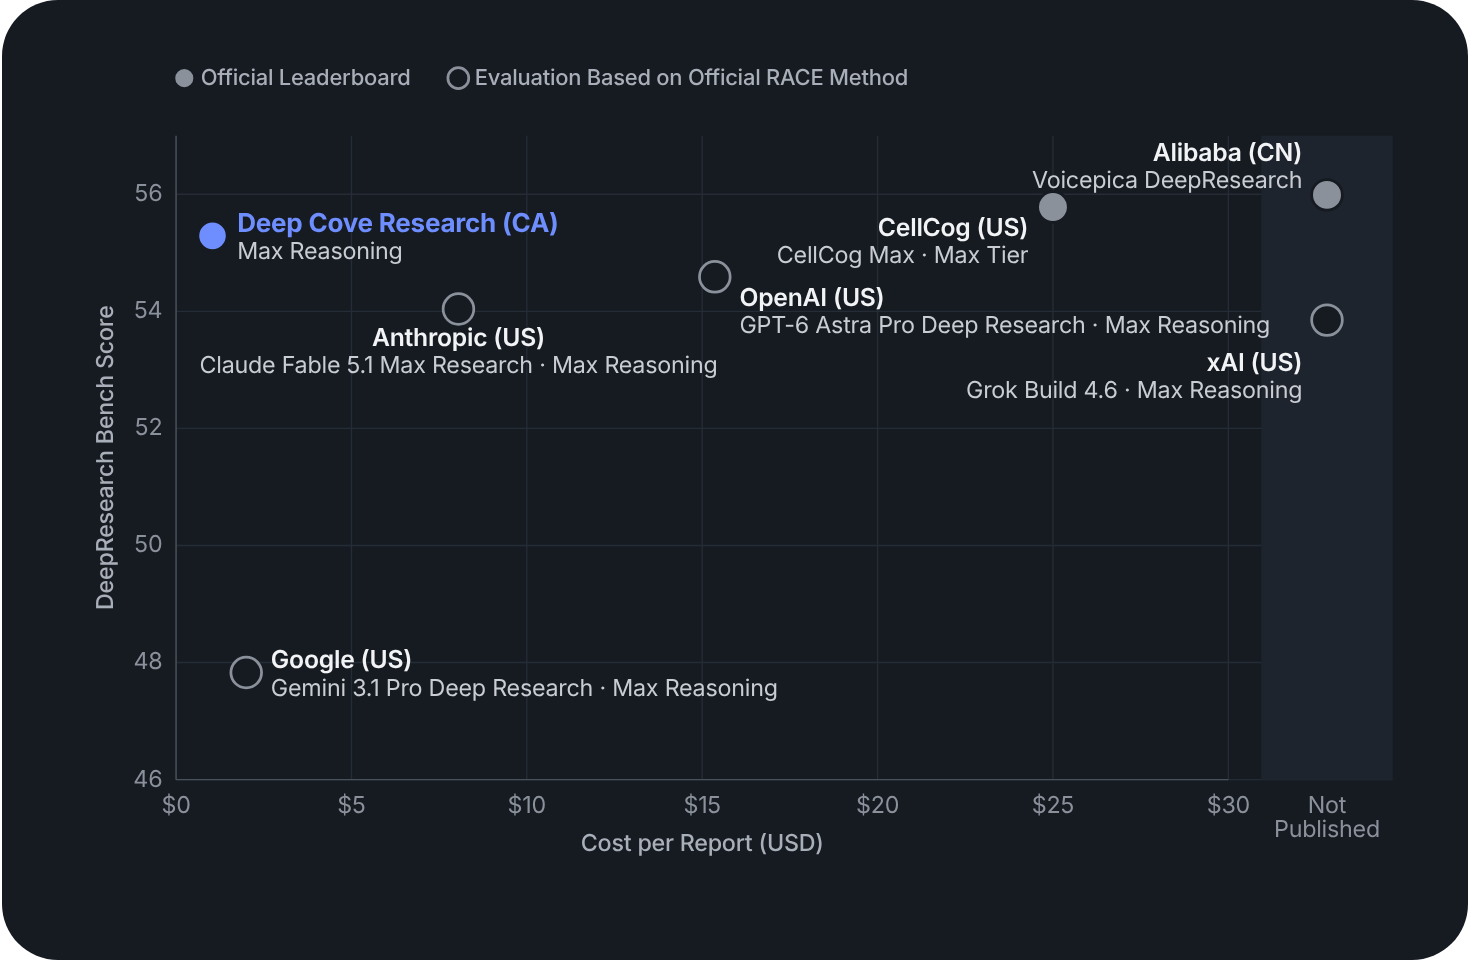
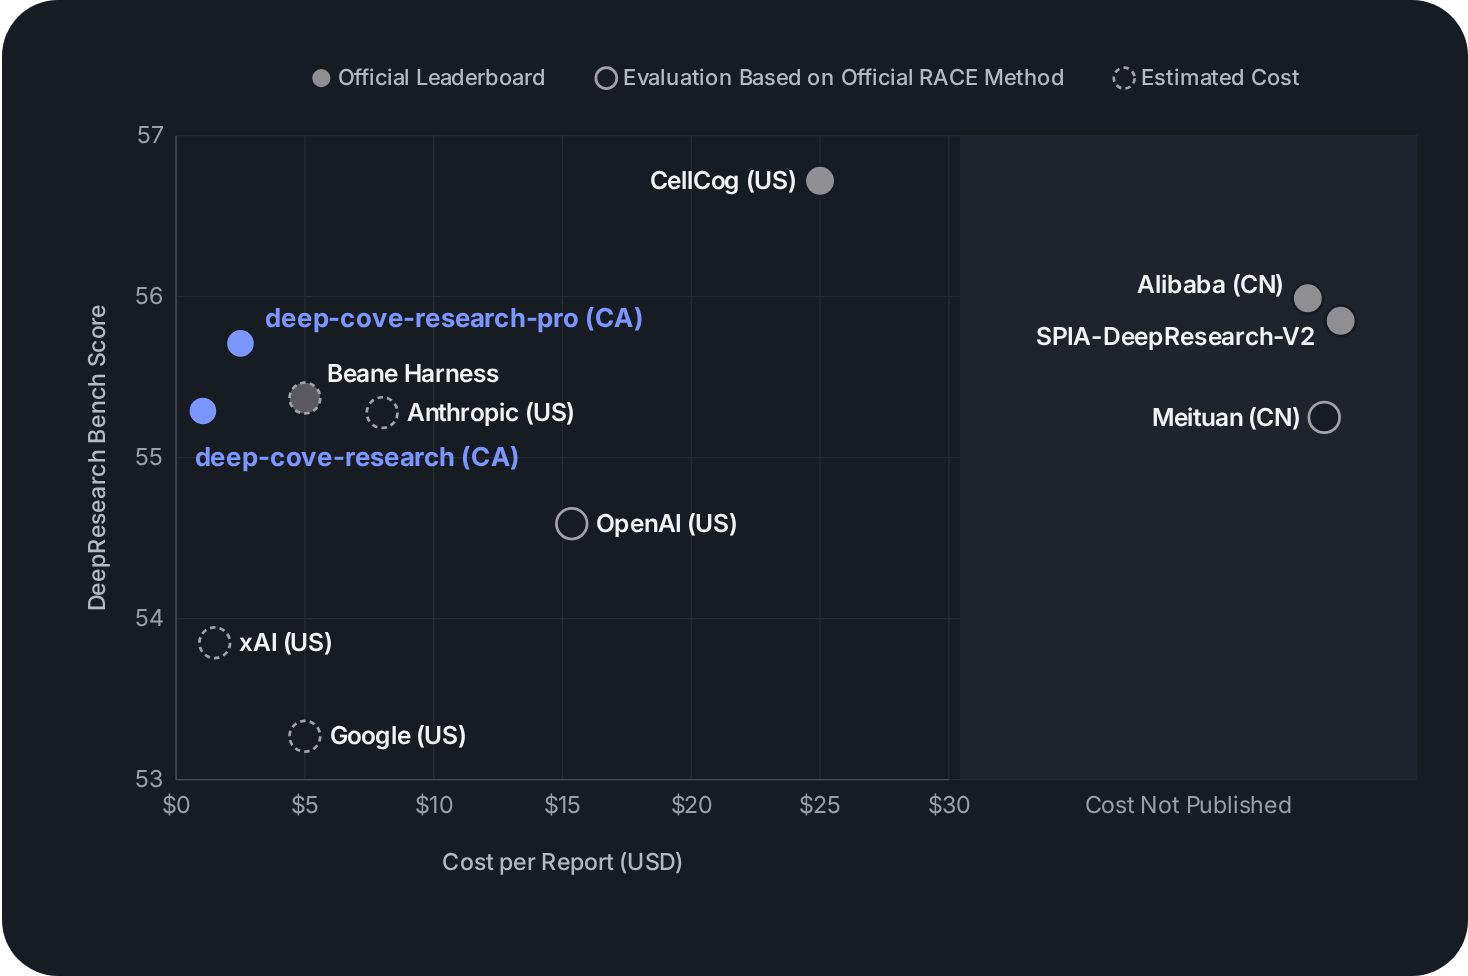
Name both entries with their ranks and costs (deep-cove-research-pro #4, deep-cove-research #6); current charts and sources; the rank job keeps both rows

diff --git a/.github/scripts/update_leaderboard.py b/.github/scripts/update_leaderboard.py
@@ -38,8 +38,12 @@ CSV_PATH = 'data_gpt55/leaderboard.csv'
 CSV_URL = BOARD_URL + '/raw/main/' + CSV_PATH
 INFO_URL = 'https://huggingface.co/api/spaces/' + SPACE + '/paths-info/main'
 MODEL = 'deep-cove-research'
-# deepcove.tech shows our best-ranked entry; this repo's README and badge keep its own row (MODEL).
-SITE_MODELS = ('deep-cove-research-pro', 'deep-cove-research')
+PRO = 'deep-cove-research-pro'
+# deepcove.tech names both entries: data-lb fields hold deep-cove-research-pro's row (our best-ranked entry when it is
+# missing), data-lbs fields hold deep-cove-research's row. This repo's badge keeps its own row (MODEL); its README block
+# lists both entries.
+SITE_MODELS = (PRO, MODEL)
+COST = {PRO: '$2.50', MODEL: '$1.04'}  # average cost per report of each entry's 100 official reports, public API prices
 UA = 'deep-cove-research-leaderboard-sync (+https://github.com/aldrinor/deep-cove-research)'
 
 MON_EN = ('Jan', 'Feb', 'Mar', 'Apr', 'May', 'Jun', 'Jul', 'Aug', 'Sep', 'Oct', 'Nov', 'Dec')
@@ -134,10 +138,11 @@ def values(d):
 # ---- gh-pages ----
 
 MARK = re.compile(r'<(span|sup) data-lb=(\\?")([a-z-]+)\2>([^<]*)<(\\?/)\1>')
+MARK2 = re.compile(r'<(span|sup) data-lbs=(\\?")([a-z-]+)\2>([^<]*)<(\\?/)\1>')
 META = re.compile(r'(<meta (?:name="description"|property="og:description") content="[^"]*?#)\d+( on DeepResearch Bench)(?! II\b)')
 
 
-def patch_page(html, d):
+def patch_page(html, d, d2=None):
     v, seen = values(d), set()
 
     def put(m):
@@ -154,6 +159,16 @@ def patch_page(html, d):
     out, n = META.subn(lambda m: m.group(1) + v['rank'] + m.group(2), out)
     if n == 0:
         raise Fail('index.html has no meta description with the rank')
+    if d2 is not None:
+        v2 = values(d2)
+
+        def put2(m):
+            tag, q, key, _, close = m.groups()
+            if key not in v2:
+                raise Fail(f'unknown marked key in index.html: data-lbs {key}')
+            return f'<{tag} data-lbs={q}{key}{q}>{v2[key]}<{close}{tag}>'
+
+        out = MARK2.sub(put2, out)
     return out
 
 
@@ -168,14 +183,20 @@ def page_json(d):
 START, END = '<!-- leaderboard:start -->', '<!-- leaderboard:end -->'
 
 
-def readme_block(d):
+def readme_block(d, d2=None):
     v = values(d)
-    return (f'{START}\n\n**#{v["rank"]} of {v["total"]}** · **{v["score"]}** on the [official leaderboard]({BOARD_URL})'
-            f'<sup>[1](#sources)</sup> · as of {v["date"]}\n\n{END}')
+    if d2 is None:
+        return (f'{START}\n\n**#{v["rank"]} of {v["total"]}** · **{v["score"]}** on the [official leaderboard]({BOARD_URL})'
+                f'<sup>[1](#sources)</sup> · as of {v["date"]}\n\n{END}')
+    v2 = values(d2)
+    return (f'{START}\n\n| Entry | Rank | Score | Cost per Report |\n|:--|:-:|:-:|:-:|\n'
+            f'| [{PRO}](https://github.com/aldrinor/{PRO}) | **#{v2["rank"]} of {v2["total"]}** | **{v2["score"]}** | {COST[PRO]} |\n'
+            f'| {MODEL} (this repository) | **#{v["rank"]} of {v["total"]}** | **{v["score"]}** | {COST[MODEL]} |\n\n'
+            f'On the [official leaderboard]({BOARD_URL})<sup>[1](#sources)</sup> · as of {v["date"]}\n\n{END}')
 
 
-def patch_readme(text, d):
-    v, block = values(d), readme_block(d)
+def patch_readme(text, d, d2=None):
+    v, block = values(d), readme_block(d, d2)
     if START in text and END in text and text.index(START) < text.index(END):
         a, b = text.index(START), text.index(END) + len(END)
         text = text[:a] + block + text[b:]
@@ -193,6 +214,14 @@ def patch_readme(text, d):
                   r'(\. Deep Cove Research )\d+\.\d+(, rank )\d+( of )\d+(\.)',
                   lambda m: m.group(1) + v['date'] + m.group(2) + v['score'] + m.group(3) + v['rank'] + m.group(4) + v['total'] + m.group(5),
                   text)
+    if d2 is not None:
+        v2 = values(d2)
+        # tagline "deep-cove-research-pro #4 and deep-cove-research #6 on DeepResearch Bench"; note 1 with both rows
+        text = re.sub(r'(' + re.escape(PRO) + r' #)\d+', lambda m: m.group(1) + v2['rank'], text)
+        text = re.sub(r'(\*\*DeepResearch Bench official leaderboard\.\*\* GPT-5\.5 judge, )\d{1,2} [A-Z][a-z]{2} \d{4}'
+                      r'(\. ' + re.escape(PRO) + r' )\d+\.\d+(, rank )\d+( of )\d+(; ' + re.escape(MODEL) + r' )\d+\.\d+(, rank )\d+( of )\d+(\.)',
+                      lambda m: (m.group(1) + v['date'] + m.group(2) + v2['score'] + m.group(3) + v2['rank'] + m.group(4) + v2['total']
+                                 + m.group(5) + v['score'] + m.group(6) + v['rank'] + m.group(7) + v['total'] + m.group(8)), text)
     return text
 
 
@@ -226,7 +255,12 @@ def main():
     try:
         text = fetch(a.csv_url)
         rank, total, score = standing(text)
-        site_model, s_rank, s_total, s_score = best_standing(text)
+        try:
+            site_model, s_rank, s_total, s_score = (PRO,) + standing(text, PRO)
+        except Fail as e:
+            if 'found 0' not in str(e):
+                raise
+            site_model, s_rank, s_total, s_score = best_standing(text)
         published = None
         if a.site and os.path.exists(os.path.join(a.site, 'leaderboard.json')):
             try:
@@ -240,6 +274,7 @@ def main():
                 else dt.datetime.now(dt.timezone.utc).date().isoformat()
         d = {'rank': rank, 'total': total, 'score': score, 'date': date}
         sd = {'model': site_model, 'rank': s_rank, 'total': s_total, 'score': s_score, 'date': date}
+        pd = sd if site_model == PRO else None   # deep-cove-research-pro's row for the README block, when on the board
         print(f'leaderboard: {MODEL} rank {rank} of {total}, score {score:.2f}; site shows {site_model} rank {s_rank}, '
               f'score {s_score:.2f}; board date {date}')
 
@@ -249,15 +284,15 @@ def main():
             idx = os.path.join(a.site, 'index.html')
             if not os.path.exists(idx):
                 raise Fail(f'{idx} not found')
-            plan.append((idx, read(idx), patch_page(read(idx), sd)))
+            plan.append((idx, read(idx), patch_page(read(idx), sd, d)))
             lj = os.path.join(a.site, 'leaderboard.json')
             plan.append((lj, read(lj) if os.path.exists(lj) else None, page_json(sd)))
         if a.readme:
-            plan.append((a.readme, read(a.readme), patch_readme(read(a.readme), d)))
+            plan.append((a.readme, read(a.readme), patch_readme(read(a.readme), d, pd)))
         if a.badge and os.path.exists(a.badge):
             plan.append((a.badge, read(a.badge), patch_badge(read(a.badge), d)))
         for path, old, new in plan:  # re-running on the new text must change nothing
-            if path.endswith('index.html') and patch_page(new, sd) != new or path.endswith('.md') and patch_readme(new, d) != new:
+            if path.endswith('index.html') and patch_page(new, sd, d) != new or path.endswith('.md') and patch_readme(new, d, pd) != new:
                 raise Fail(f'update of {path} is not stable')
     except Fail as e:
         print(f'error: {e}; nothing changed', file=sys.stderr)

diff --git a/README.md b/README.md
@@ -6,7 +6,7 @@
 
 <p align="center">
   <b>A comprehension engine built on Read-Time Compute.</b><br>
-  #6 on DeepResearch Bench<sup><a href="#sources">1</a></sup> · Up to 93% lower cost than frontier deep research agents<sup><a href="#sources">2</a></sup>
+  deep-cove-research-pro #4 and deep-cove-research #6 on DeepResearch Bench<sup><a href="#sources">1</a></sup> · Up to 93% lower cost than frontier deep research agents<sup><a href="#sources">2</a></sup>
 </p>
 
 <p align="center">
@@ -27,7 +27,12 @@ Deep Cove Research comprehends full sources, then turns them into research repor
 
 <!-- leaderboard:start -->
 
-**#6 of 18** · **55.29** on the [official leaderboard](https://huggingface.co/spaces/muset-ai/DeepResearch-Bench-Leaderboard)<sup>[1](#sources)</sup> · as of 22 Oct 2026
+| Entry | Rank | Score | Cost per Report |
+|:--|:-:|:-:|:-:|
+| [deep-cove-research-pro](https://github.com/aldrinor/deep-cove-research-pro) | **#4 of 18** | **55.71** | $2.50 |
+| deep-cove-research (this repository) | **#6 of 18** | **55.29** | $1.04 |
+
+On the [official leaderboard](https://huggingface.co/spaces/muset-ai/DeepResearch-Bench-Leaderboard)<sup>[1](#sources)</sup> · as of 22 Oct 2026
 
 <!-- leaderboard:end -->
 
@@ -38,11 +43,11 @@ A benchmark for deep research agents. It has 100 PhD-level research tasks, writt
 <p align="center">
   <picture>
     <source media="(prefers-color-scheme: dark)" srcset="assets/chart-score-cost-dark.png">
-    <img src="assets/chart-score-cost-light.png" width="100%" alt="DeepResearch Bench score against cost per report. Official leaderboard: Alibaba Voicepica DeepResearch 55.99, cost not published; CellCog Max 55.78, up to $25; Deep Cove Research 55.29 at $1.04. Evaluation based on the official RACE method: OpenAI GPT-6 Astra Pro Deep Research 54.59 at $15.36; Anthropic Claude Fable 5.1 Max Research 54.04 at $8.05; xAI Grok Build 4.6 53.85, cost not published; Google Gemini 3.1 Pro Deep Research 47.83 at about $2.">
+    <img src="assets/chart-score-cost-light.png" width="100%" alt="DeepResearch Bench score against cost per report. Official leaderboard: CellCog (US) 56.72, $25 or more per session; Alibaba (CN) 55.99 and SPIA-DeepResearch-V2 55.85, cost not published; deep-cove-research-pro (CA) 55.71 at $2.50; Beane Harness 55.37, estimated about $5; deep-cove-research (CA) 55.29 at $1.04. Evaluation based on the official RACE method: Anthropic Claude Research (Fable 5.1 Max) 55.28, estimated about $8; Meituan LongCat 55.25, published by Meituan, cost not published; OpenAI GPT-6 Astra Pro Deep Research 54.59 at $15.36; xAI Grok Build 4.6 53.85, estimated about $1.50; Google Gemini 4 Deep Research 53.27, estimated about $5.">
   </picture>
 </p>
 
-<p align="right"><sub>Score and cost sources: <a href="#sources">3</a>, <a href="#sources">6</a></sub></p>
+<p align="right"><sub>Score and cost sources: <a href="#sources">3</a>, <a href="#sources">5</a>, <a href="#sources">6</a></sub></p>
 
 ## Agents spend compute looping. We spend it on comprehension.
 
@@ -50,7 +55,7 @@ A benchmark for deep research agents. It has 100 PhD-level research tasks, writt
 |:--|:--|
 | **85%** of input tokens are rereading session history | **2%** of input tokens are rereading session history |
 | Frontier research agents work in a loop: search, open a page, take notes, repeat. Before each new step, they read all their old notes again. So most of their effort goes into rereading, not into new sources.<sup>[2](#sources)</sup> | Our state-of-the-art orchestrator handles the loop itself, so the model does not reread old notes. We spend the savings on research: 5X more searches,<sup>[2](#sources)</sup> and an engine built to read thousands of sources.<sup>[7](#sources)</sup> |
-| <sub>GPT-6 Astra Pro · Max Reasoning</sub> | <sub>Deep Cove Research · Max Reasoning</sub> |
+| <sub>GPT-6 Astra Pro · Max Reasoning</sub> | <sub>deep-cove-research · Max Reasoning</sub> |
 
 ## Looping has a price.
 
@@ -59,7 +64,7 @@ On average, frontier research agents cost $15.36 per task. Rereading their old n
 <p align="center">
   <picture>
     <source media="(prefers-color-scheme: dark)" srcset="assets/chart-cost-per-task-dark.png">
-    <img src="assets/chart-cost-per-task-light.png" width="100%" alt="Cost per task. GPT-6 Astra Pro Deep Research: $15.36, split into rereading history, planning, searching and writing, and reading new material. Deep Cove Research: $0.99, 93% lower cost, spent mostly on reading new material.">
+    <img src="assets/chart-cost-per-task-light.png" width="100%" alt="Cost per task. GPT-6 Astra Pro Deep Research: $15.36, split into rereading history, planning, searching and writing, and reading new material. deep-cove-research: $0.99, 93% lower cost, spent mostly on reading new material.">
   </picture>
 </p>
 
@@ -69,18 +74,18 @@ On average, frontier research agents cost $15.36 per task. Rereading their old n
 |:--|:--|
 | **14** average searches per report | **68** average searches per report |
 | Frontier research agents have limited memory, and the loop uses most of it. So they only have room for about 14 searches per report. For many sources, they read only the short snippet, not the complete content, so details are easy to miss or misread.<sup>[2](#sources)</sup> | Our state-of-the-art context management keeps the model's memory clear. So it has room for about 68 searches per report, 5X more than frontier agents. We comprehend the whole page and turn it into evidence cards for deep comprehension.<sup>[2](#sources)</sup> |
-| <sub>GPT-6 Astra Pro · Max Reasoning</sub> | <sub>Deep Cove Research · Max Reasoning</sub> |
+| <sub>GPT-6 Astra Pro · Max Reasoning</sub> | <sub>deep-cove-research · Max Reasoning</sub> |
 
 ## Inside the comprehension engine.
 
-### A lighter model. A higher score.
+### Lighter models. Higher scores.
 
-The comprehension engine works from real-time, post-training sources it comprehends at runtime, not from obsolete knowledge. That makes model size a minor factor. We run a model priced about 40X lower than GPT-6 Astra Pro and Claude Fable 5.1, and score higher.<sup>[8](#sources)</sup>
+The comprehension engine works from real-time, post-training sources it comprehends at runtime, not from obsolete knowledge. That makes model size a minor factor. Our two entries run models priced 5X to 40X lower than GPT-6 Astra Pro and Claude Fable 5.1, and score higher.<sup>[8](#sources)</sup>
 
 <p align="center">
   <picture>
     <source media="(prefers-color-scheme: dark)" srcset="assets/chart-model-cost-dark.png">
-    <img src="assets/chart-model-cost-light.png" width="80%" alt="Model cost against DeepResearch Bench score. List price per 1M output tokens: GPT-6 Astra Pro $50, score 54.59; Claude Fable 5.1 $50, 54.04; Gemini 3.1 Pro $12, 47.83; Grok Build 4.6 $6, 53.85; Deep Cove Research $1.20, 55.29.">
+    <img src="assets/chart-model-cost-light.png" width="80%" alt="Model cost against DeepResearch Bench score. List price per 1M output tokens: deep-cove-research $1.20, score 55.29; deep-cove-research-pro $1.20 for 88% of its model calls and $10 for the rest, shown at $10, score 55.71; Gemini 4 Argon $10, 53.27; Grok Build 4.6 $6, 53.85; GPT-6 Astra Pro $50, 54.59; Claude Fable 5.1 $50, 55.28.">
   </picture>
 </p>
 
@@ -107,7 +112,7 @@ Our engine handles the research process, so a light model is enough, at about 31
 
 ## Reports
 
-The 100 reports behind our official score: 50 in Chinese and 50 in English. Every report has its own page: the benchmark prompt, then the full report.
+The 100 reports behind the official score of deep-cove-research: 50 in Chinese and 50 in English. Every report has its own page: the benchmark prompt, then the full report. The 100 reports of our second entry, deep-cove-research-pro, are in [aldrinor/deep-cove-research-pro](https://github.com/aldrinor/deep-cove-research-pro).
 
 **[Browse all 100 reports →](reports/README.md)**
 
@@ -228,14 +233,14 @@ Proprietary. The reports in this repository are © 2026 Deep Cove Research, all 
 
 ## Sources
 
-1. **DeepResearch Bench official leaderboard.** GPT-5.5 judge, 22 Oct 2026. Deep Cove Research 55.29, rank 6 of 18.
-2. **Deep Cove token study.** DeepResearch Bench II tasks 7, 28 and 50, Oct 2026. Per task: GPT-6 Astra Pro $15.36 billed, 2.05M input tokens (85% repeated history), 14 searches; Deep Cove Research $0.99 at public API prices, 0.86M input tokens (2% repeated), 68 searches and 61 pages downloaded. Stage costs at billed and public API prices.
-3. **Deep Cove evaluation.** Official RACE method and GPT-5.5 judge, DeepResearch Bench tasks 10, 20, 30, 70 and 90, 3 judgments each, Sep 2026. Scores use the same scale as the official leaderboard.
+1. **DeepResearch Bench official leaderboard.** GPT-5.5 judge, 22 Oct 2026. deep-cove-research-pro 55.71, rank 4 of 18; deep-cove-research 55.29, rank 6 of 18.
+2. **Deep Cove token study.** DeepResearch Bench II tasks 7, 28 and 50, Oct 2026. Per task: GPT-6 Astra Pro $15.36 billed, 2.05M input tokens (85% repeated history), 14 searches; deep-cove-research $0.99 at public API prices, 0.86M input tokens (2% repeated), 68 searches and 61 pages downloaded. Stage costs at billed and public API prices.
+3. **Deep Cove evaluation.** Official RACE method and GPT-5.5 judge. GPT-6 Astra Pro and Grok Build 4.6: DeepResearch Bench tasks 10, 20, 30, 70 and 90, 3 judgments each, Sep 2026. Claude Research (99 reports) and Gemini 4 Deep Research (92 reports): every report we ran, 1 judgment each, Oct 2026. Meituan LongCat: published by Meituan (arXiv 2609.36071). Scores use the same scale as the official leaderboard.
 4. **DeepResearch Bench paper.** ICLR 2026, arXiv 2506.11763: 100 PhD-level tasks in 22 fields, Chinese and English.
 5. **Published DeepResearch Bench results.** Papers, model cards and leaderboard entries, Oct 2026.
-6. **Cost per report.** Deep Cove Research $1.04, average of the 100 official reports at public API prices. GPT-6 Astra Pro, Claude Fable 5.1: billed usage on DeepResearch Bench II tasks 7, 28 and 50. Gemini 3.1 Pro: list price, $1 to $3. CellCog: published price, up to $25.
+6. **Cost per report.** deep-cove-research-pro $2.50 and deep-cove-research $1.04: averages of their 100 official reports at public API prices. GPT-6 Astra Pro: billed usage on DeepResearch Bench II tasks 7, 28 and 50. CellCog: published price, about $25 per Max working session. Estimated costs (dashed ring, midpoint shown): Gemini 4 Deep Research, Google’s published estimate for Deep Research Max, $3 to $7; Claude Research, our billed API run of Claude Fable 5.1 at max effort, $8.05; Grok, our billed API runs of the same model family, $1 to $2; Beane Harness, its published call counts at public prices, $2 to $8.
 7. **Engine design.** Each source is comprehended in its own model call, in parallel, so capacity grows with the number of calls. Current setting: up to 384 pages per report.
-8. **Public list prices.** Per 1M output tokens, 8 Oct 2026: our model $1.20; GPT-6 Astra Pro $50; Claude Fable 5.1 $50; Gemini 3.1 Pro $12; Grok Build 4.6 $6. Scores: notes 1 and 3.
+8. **Public list prices.** Per 1M output tokens: GPT-5.6 Luna $1.20 (deep-cove-research, and 88% of deep-cove-research-pro’s model calls); GPT-6.1 Sol $10 (the rest of deep-cove-research-pro’s calls); GPT-6 Astra Pro $50; Claude Fable 5.1 $50; Grok Build 4.6 $6 (8 Oct 2026); Gemini 4 Argon $10 until 30 Nov 2026, then $20 (22 Oct 2026). Scores: notes 1 and 3.
 9. **GPU estimates.** Kimi K3 model card: 2.8T parameters, MXFP4 weights, about 1.5 TB, which needs 2 servers of 8 NVIDIA B200 (192 GB each). gpt-oss-120b model card: 117B parameters, fits a single 80 GB GPU. On-demand prices, RunPod, 8 Oct 2026: B200 $6.79 per hour, H100 SXM $3.49 per hour.
 
 ## Acknowledgements
